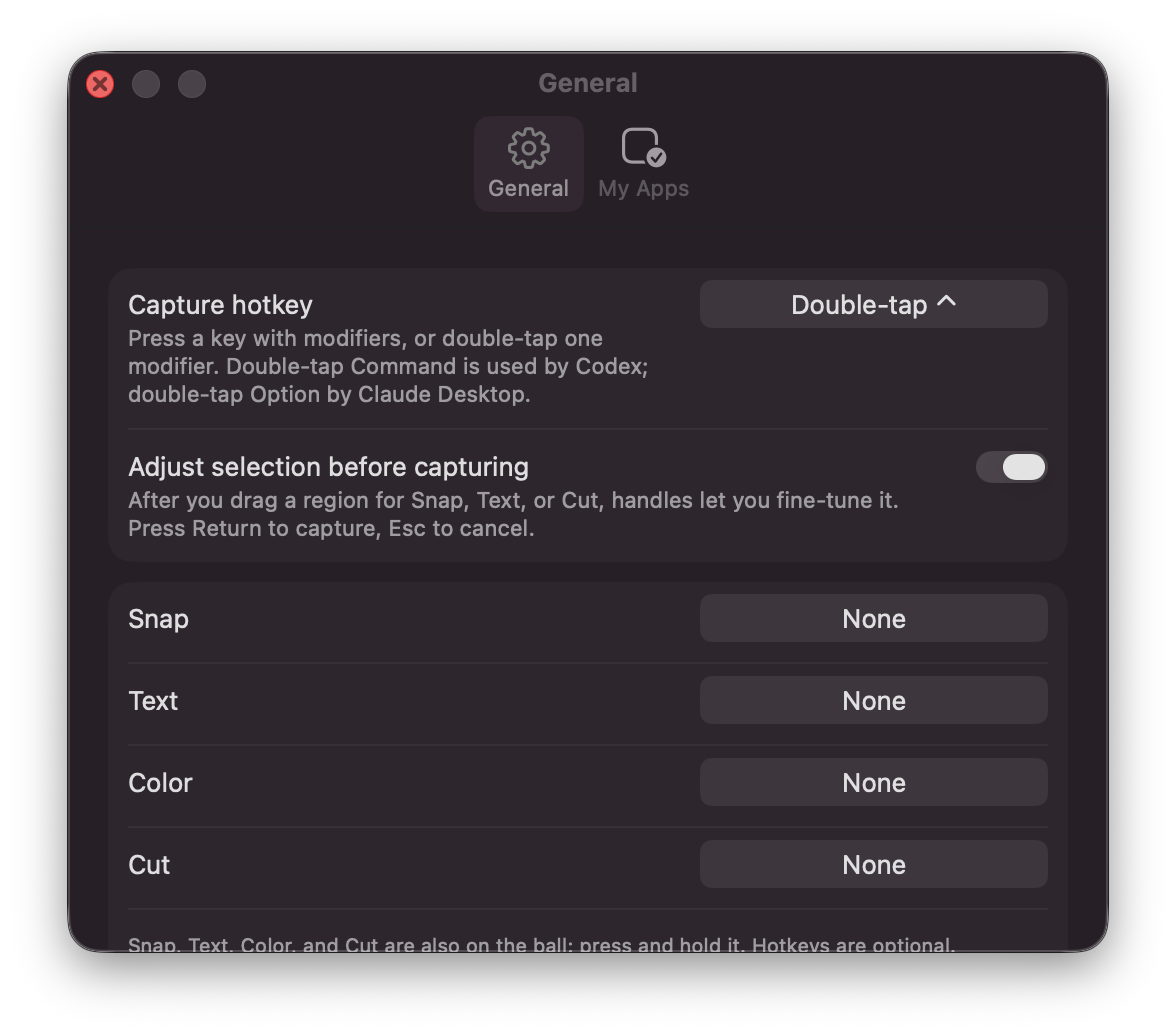
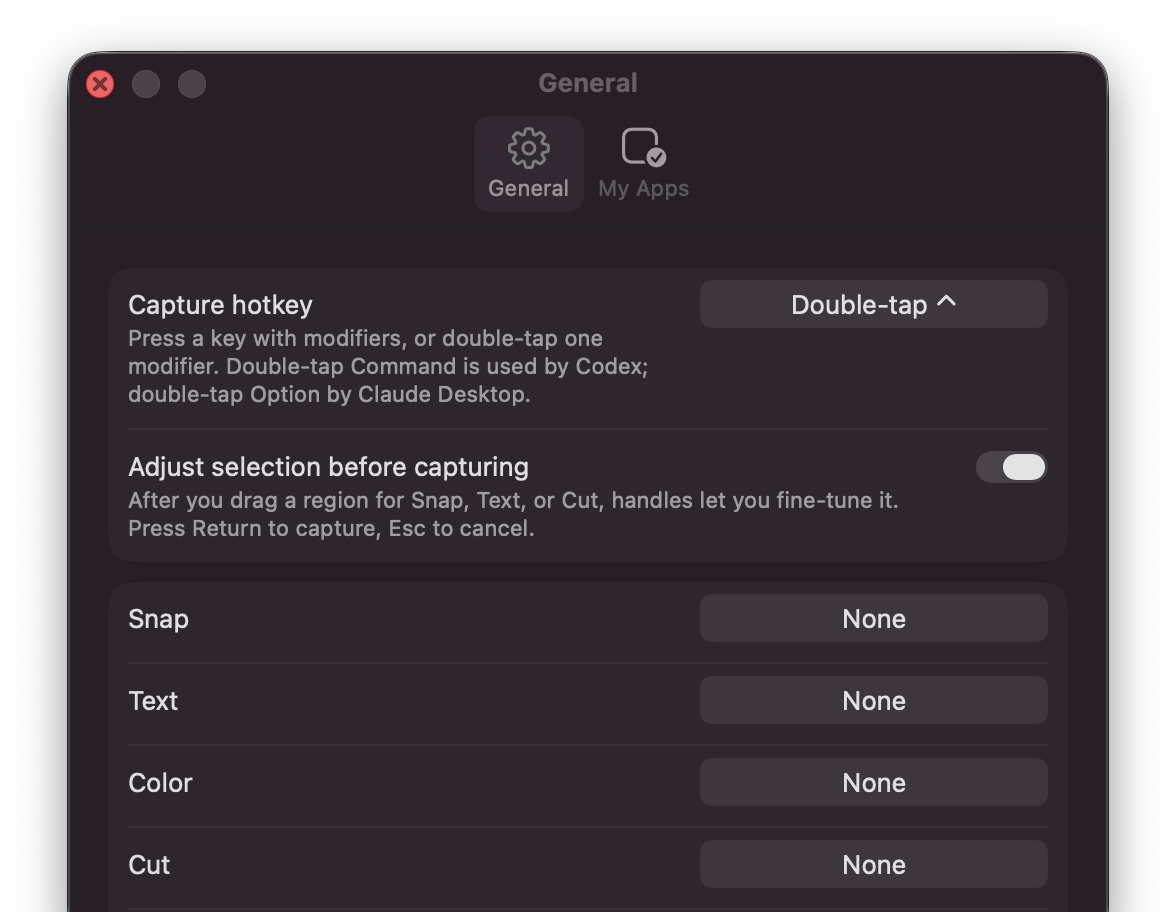
site: Before & After drawn as the real window, actions aligned, payload full width, Settings capture trimmed

diff --git a/site/index.html b/site/index.html
@@ -227,21 +227,21 @@
   .term .k { color: #6ab0ff; }
 
   /* payload with what each line is for */
-  .payload-wrap { display: grid; grid-template-columns: 1.35fr 1fr; gap: 28px; align-items: start; }
+  .payload-wrap { display: grid; gap: 24px; }
   pre.payload {
     margin: 0; background: var(--code-bg); border: 1px solid var(--hair); border-radius: 12px;
     padding: 18px 20px; overflow-x: auto; line-height: 1.6; font-size: 13px;
   }
   pre.payload .h { color: var(--muted); }
   pre.payload .k { color: var(--accent); }
-  .notes { display: grid; gap: 14px; padding-top: 6px; }
+  .notes { display: grid; grid-template-columns: 1fr 1fr; gap: 14px 32px; }
   .note { display: grid; gap: 2px; font-size: 15px; padding-left: 14px; border-left: 2px solid var(--hair); }
   .note b { font-weight: 600; }
   .note span { color: var(--muted); }
 
   /* the fallback ladder: what the label reads at each rung */
   .ladder { display: grid; gap: 10px; }
-  .rung { display: grid; grid-template-columns: 26px 1fr 1.3fr; gap: 16px; align-items: center; padding: 14px 16px; border-radius: 12px; background: var(--surface); box-shadow: 0 0 0 1px var(--hair); }
+  .rung { display: grid; grid-template-columns: 26px auto 1fr; gap: 18px; align-items: center; padding: 14px 16px; border-radius: 12px; background: var(--surface); box-shadow: 0 0 0 1px var(--hair); }
   .rung .n { color: var(--muted); font-variant-numeric: tabular-nums; font-size: 13px; }
   .rung .chip { justify-self: start; background: var(--hud); border: 1px solid var(--hud-edge); border-radius: 6px; padding: 3px 8px; font-size: 12px; white-space: nowrap; }
   .rung .chip code { font-size: 0.95em; }
@@ -249,31 +249,41 @@
   .rung p { color: var(--muted); font-size: 14px; }
   .rung b { color: var(--ink); font-weight: 600; }
 
-  .actions { display: grid; grid-template-columns: repeat(4, 1fr); gap: 16px; }
-  .action { display: grid; gap: 10px; padding: 20px 18px; background: var(--surface); border-radius: 16px; box-shadow: 0 0 0 1px var(--hair); align-content: start; }
+  .actions { display: grid; grid-template-columns: repeat(4, 1fr); gap: 14px; }
+  .action { display: grid; gap: 8px; padding: 18px 16px; background: var(--surface); border-radius: 16px; box-shadow: 0 0 0 1px var(--hair); align-content: start; }
   .action svg { width: 36px; height: 36px; color: var(--accent); }
   .action h3 { font-size: 19px; }
   .action p { font-size: 14px; color: var(--muted); }
   .action .keeps { font-size: 12px; color: var(--muted); margin-top: 2px; }
   .rulebox { margin-top: 18px; font-size: 15px; color: var(--muted); }
 
-  .split { display: grid; grid-template-columns: 1.1fr 1fr; gap: 40px; align-items: center; }
-  .ba { position: relative; aspect-ratio: 4 / 3; border-radius: 16px; overflow: hidden; background: var(--frame); box-shadow: var(--shadow); }
-  .ba .pane { position: absolute; inset: 14% 0 0 0; display: grid; place-items: center; }
-  .ba .pane.before { right: 46%; }
-  .ba .pane.after { left: 54%; }
-  .ba .btn-old { width: 62%; height: 15%; background: var(--accent); border-radius: 6px; opacity: .85; }
-  .ba .btn-new { width: 62%; height: 15%; background: var(--accent); border-radius: 980px; }
-  .ba .divider { position: absolute; top: 14%; bottom: 0; left: 50%; width: 2px; background: var(--surface); box-shadow: 0 0 0 1px var(--hair); }
-  .ba .knob { position: absolute; top: 50%; left: 50%; width: 26px; height: 26px; transform: translate(-50%, -50%); border-radius: 50%; background: var(--surface); box-shadow: 0 1px 4px rgba(0,0,0,.25); }
-  .ba .note { position: absolute; top: 0; left: 0; right: 0; height: 14%; display: flex; align-items: center; padding-inline: 16px; font-size: 13px; color: var(--muted); background: var(--surface); border-bottom: 1px solid var(--hair); }
-  .ba .tags { position: absolute; bottom: 10px; left: 12px; right: 12px; display: flex; gap: 8px; font-size: 11.5px; color: var(--muted); }
-  .ba .tags span { background: var(--surface); border-radius: 6px; padding: 3px 7px; box-shadow: 0 0 0 1px var(--hair); }
-  .ba .side { position: absolute; top: 16%; font-size: 11px; color: var(--muted); text-transform: none; }
-  .ba .side.l { left: 12px; } .ba .side.r { left: calc(50% + 12px); }
+  .split { display: grid; grid-template-columns: 1.15fr 1fr; gap: 40px; align-items: center; }
+  .ba {
+    border-radius: 14px; overflow: hidden; background: var(--surface); box-shadow: var(--shadow), 0 0 0 1px var(--hair);
+    font-size: 12px; color: var(--muted);
+  }
+  .ba .chrome { height: 30px; background: var(--frame-chrome); border-bottom: 1px solid var(--hair); display: grid; grid-template-columns: 1fr auto 1fr; align-items: center; padding-inline: 10px; }
+  .ba .chrome .dots { display: flex; gap: 6px; }
+  .ba .chrome .dots i { width: 10px; height: 10px; border-radius: 50%; background: var(--hair); display: block; }
+  .ba .chrome .title { font-weight: 600; color: var(--muted); font-size: 12px; }
+  .ba .memo { padding: 12px 14px 10px; color: var(--ink); font-size: 14px; }
+  .ba .panes { position: relative; display: grid; grid-template-columns: 1fr 1fr; gap: 2px; background: var(--hair); margin-inline: 14px; border-radius: 8px; overflow: hidden; }
+  .ba .pane { position: relative; aspect-ratio: 45 / 26; background: var(--frame); display: grid; place-items: center; padding: 10%; }
+  .ba .pane .tag { position: absolute; top: 8px; left: 10px; font-size: 11px; color: var(--muted); }
+  .ba .pane .btn-old { width: 78%; height: 30%; background: var(--accent); border-radius: 6px; opacity: .85; }
+  .ba .pane .btn-new { width: 78%; height: 30%; background: var(--accent); border-radius: 980px; }
+  .ba .divider { position: absolute; top: 0; bottom: 0; left: 50%; width: 2px; background: var(--surface); transform: translateX(-1px); }
+  .ba .knob { position: absolute; top: 50%; left: 50%; width: 22px; height: 22px; transform: translate(-50%, -50%); border-radius: 50%; background: var(--surface); box-shadow: 0 1px 4px rgba(0,0,0,.25); display: grid; place-items: center; }
+  .ba .knob::before { content: ""; width: 8px; height: 8px; border-left: 1.5px solid var(--muted); border-right: 1.5px solid var(--muted); }
+  .ba .facts { display: grid; gap: 6px; padding: 12px 14px 14px; font-family: ui-monospace, "SF Mono", Menlo, monospace; font-size: 11.5px; }
+  .ba .facts .stat { color: var(--ink); }
+  .ba .facts .stat b { font-weight: 600; }
+  .ba .facts .plus { color: #30a46c; } .ba .facts .minus { color: #e5484d; }
+  .ba .facts .file { display: flex; justify-content: space-between; gap: 12px; }
 
   .shot { display: grid; justify-items: center; }
-  .shot img { max-width: 100%; width: 588px; height: auto; display: block; }
+  .shot img { max-width: 100%; width: 588px; height: auto; display: block;
+    -webkit-mask-image: linear-gradient(to bottom, #000 98%, transparent 100%); mask-image: linear-gradient(to bottom, #000 98%, transparent 100%); }
 
   .grid2 { display: grid; grid-template-columns: repeat(2, 1fr); gap: 24px 40px; }
   .grid2 .item { display: grid; grid-template-columns: 28px 1fr; gap: 4px 14px; align-items: start; }
@@ -297,7 +307,7 @@
   @media (max-width: 720px) {
     .hero { padding-block: 56px 36px; }
     .app-icon { width: 96px; height: 96px; border-radius: 21.5px; }
-    .grid2, .payload-wrap { grid-template-columns: 1fr; }
+    .grid2, .notes { grid-template-columns: 1fr; }
     .steps { grid-template-columns: 1fr; gap: 16px; }
     .step { grid-template-columns: 224px 1fr; align-items: center; gap: 20px; }
     .step .vis { height: 96px; padding: 12px; }
@@ -411,14 +421,14 @@ make this rounded, match the other pills</pre>
     <div class="ladder">
       <div class="rung"><span class="n">1</span><span class="chip">button · <code>id=captureButton</code></span><p><b>Element</b> with a declared identifier. The best case.</p></div>
       <div class="rung"><span class="n">2</span><span class="chip">button · "Save changes"</span><p><b>Label only.</b> The nearest labeled neighbors are named too.</p></div>
-      <div class="rung"><span class="n">3</span><span class="chip">frame · 450×130 · 6 elements</span><p><b>Drawn frame.</b> Drag on the overlay; every element inside is listed.</p></div>
-      <div class="rung"><span class="n">4</span><span class="chip">text · "Save changes" "Cancel"</span><p><b>Text and neighbors.</b> Words in the image are recognized and listed.</p></div>
-      <div class="rung"><span class="n">5</span><span class="chip dash">element: null</span><p><b>Image.</b> The payload says so, and still carries the image and your note.</p></div>
+      <div class="rung"><span class="n">3</span><span class="chip">frame · 450×130 · 6 elements</span><p><b>Drawn frame.</b> Drag on the overlay; everything inside is listed.</p></div>
+      <div class="rung"><span class="n">4</span><span class="chip">text · "Save changes" "Cancel"</span><p><b>Text and neighbors.</b> Words in the image are recognized.</p></div>
+      <div class="rung"><span class="n">5</span><span class="chip dash">element: null</span><p><b>Image.</b> The payload says so, and still carries your note.</p></div>
     </div>
   </section>
 
-  <section class="wide">
-    <div class="sect-head col" style="margin-inline: auto;">
+  <section class="col">
+    <div class="sect-head">
       <h2>Four more, on the same gesture</h2>
       <p class="lede">Press and hold the ball for the ring.</p>
     </div>
@@ -440,18 +450,24 @@ make this rounded, match the other pills</pre>
         <h3>Cut</h3><p>The subject on a transparent background.</p><p class="keeps">Keeps a file</p>
       </div>
     </div>
-    <p class="rulebox col" style="margin-inline: auto;">One rule decides what stays: actions that make an image keep a file for 30 days. Actions that make text or a value keep nothing.</p>
+    <p class="rulebox">One rule decides what stays: actions that make an image keep a file for 30 days. Actions that make text or a value keep nothing.</p>
   </section>
 
   <section class="col">
     <div class="split">
-      <div class="ba" aria-label="Before and after: the same button, square-cornered before and pill-shaped after, with a slide divider">
-        <div class="note">make this rounded, match the other pills</div>
-        <span class="side l">Before</span><span class="side r">After</span>
-        <div class="pane before"><div class="btn-old"></div></div>
-        <div class="pane after"><div class="btn-new"></div></div>
-        <div class="divider"></div><div class="knob"></div>
-        <div class="tags"><span>2 files changed</span><span>+12 −4</span><span>a3f9c1e → working tree</span></div>
+      <div class="ba" role="img" aria-label="The Before and After window: the note on top, two captures of the same button side by side with a slide divider, square-cornered before and pill-shaped after, and the git diff stat beneath">
+        <div class="chrome"><div class="dots"><i></i><i></i><i></i></div><span class="title">Before &amp; After</span><span></span></div>
+        <div class="memo">make this rounded, match the other pills</div>
+        <div class="panes">
+          <div class="pane"><span class="tag">Before</span><div class="btn-old"></div></div>
+          <div class="pane"><span class="tag">After</span><div class="btn-new"></div></div>
+          <div class="divider"></div><div class="knob"></div>
+        </div>
+        <div class="facts">
+          <div class="stat"><b>2 files changed</b> · <span class="plus">+12</span> <span class="minus">−4</span> · a3f9c1e → working tree</div>
+          <div class="file"><span>Sources/Capture/CaptureButton.swift</span><span><span class="plus">+9</span> <span class="minus">−3</span></span></div>
+          <div class="file"><span>Sources/DesignSystem/Pill.swift</span><span><span class="plus">+3</span> <span class="minus">−1</span></span></div>
+        </div>
       </div>
       <div class="sect-head" style="margin: 0;">
         <h2>See what changed</h2>
@@ -467,7 +483,7 @@ make this rounded, match the other pills</pre>
       <p class="lede">The one place Deixis is a window. Every default works on first launch.</p>
     </div>
     <figure class="shot" style="margin: 0;">
-      <img src="assets/settings-dark.png" width="1176" height="1036" alt="Deixis Settings window, General tab: capture hotkey set to double-tap Control, a toggle to adjust the selection before capturing, and per-action hotkeys for Snap, Text, Color, and Cut">
+      <img src="assets/settings-dark.png" width="1176" height="912" alt="Deixis Settings window, General tab: capture hotkey set to double-tap Control, a toggle to adjust the selection before capturing, and per-action hotkeys for Snap, Text, Color, and Cut">
     </figure>
   </section>
 
